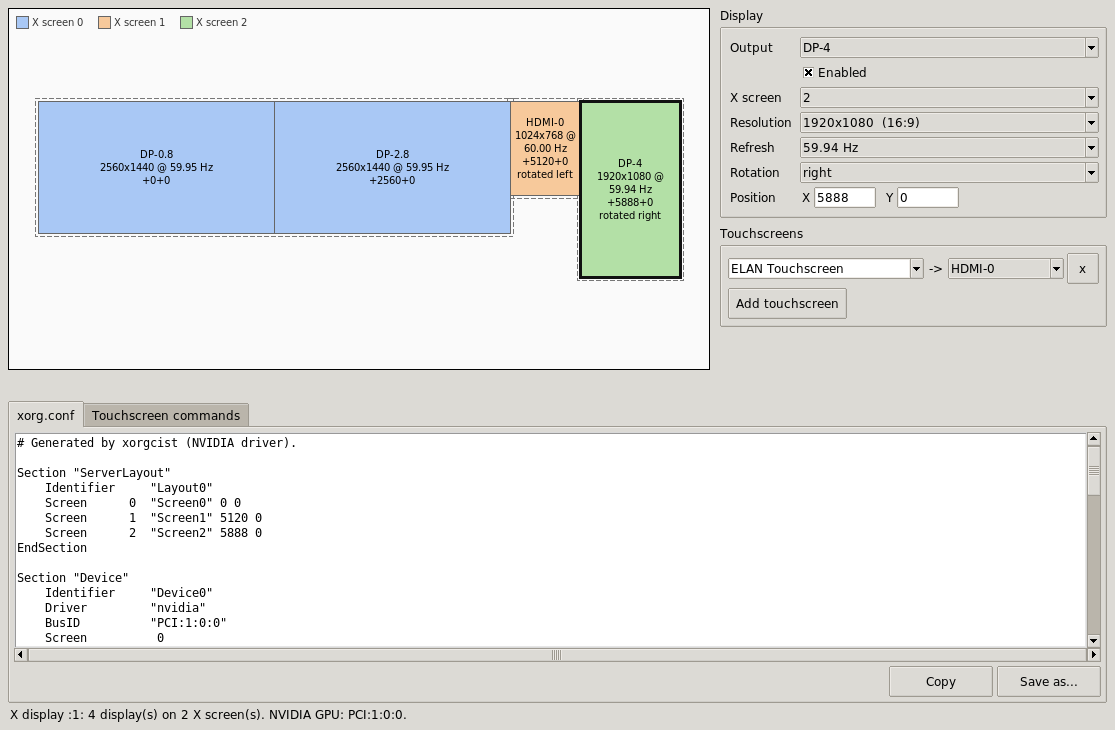
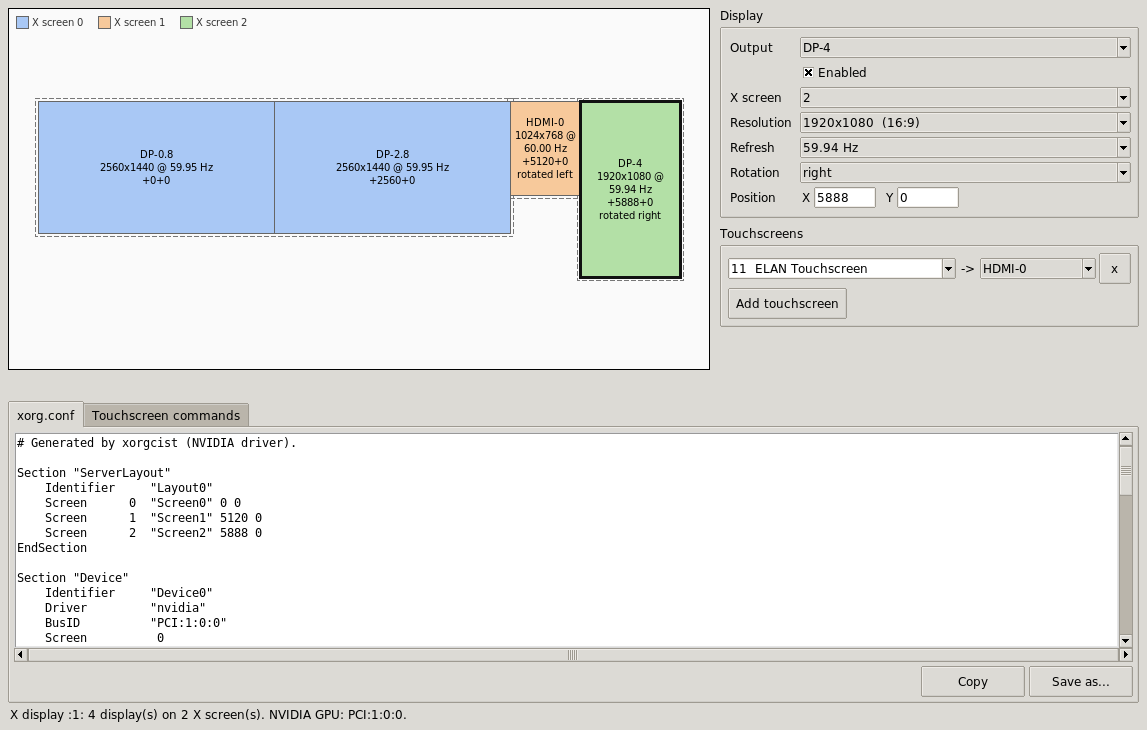
updated xrandr commands to use IDs instead of names

diff --git a/xorgcist.py b/xorgcist.py
@@ -8,7 +8,6 @@ import argparse
 import math
 import os
 import re
-import shlex
 import subprocess
 import sys
 import tkinter as tk
@@ -38,7 +37,7 @@ OUTPUT_RE = re.compile(r"^(\S+) (connected|disconnected)([^(]*)")
 GEOMETRY_RE = re.compile(r"(\d+)x(\d+)\+(-?\d+)\+(-?\d+)")
 MODE_RE = re.compile(r"^\s+(\d+)x(\d+)(\S*)\s+(.*)$")
 SCREEN_RE = re.compile(r"^Screen \d+:.* current (\d+) x (\d+)")
-XINPUT_RE = re.compile(r"^\W*(.+?)\s+id=\d+\s+\[slave\s+pointer")
+XINPUT_RE = re.compile(r"^\W*(.+?)\s+id=(\d+)\s+\[slave\s+pointer")
 
 
 def run(cmd, display=None):
@@ -105,12 +104,18 @@ def parse_xrandr(text):
 
 
 def parse_xinput(text):
-    names = []
+    """`xinput list` -> ["11  ELAN Touchscreen", ...], touchscreens first."""
+    devices = []
     for line in text.splitlines():
         m = XINPUT_RE.match(line)
-        if m and "XTEST" not in m.group(1) and m.group(1) not in names:
-            names.append(m.group(1))
-    return sorted(names, key=lambda n: "touch" not in n.lower())
+        if m and "XTEST" not in m.group(1):
+            devices.append("%s  %s" % (m.group(2), m.group(1)))
+    return sorted(devices, key=lambda d: "touch" not in d.lower())
+
+
+def device_id(text):
+    m = re.match(r"\s*(\d+)", text)
+    return m.group(1) if m else None
 
 
 def pci_to_busid(pci):
@@ -317,16 +322,17 @@ def emit_touch_script(state):
     lines = ["#!/bin/sh",
              "# Generated by xorgcist. Run inside the X session, e.g. from session autostart.",
              "# xinput settings are lost when the device is re-plugged or X restarts."]
-    rows = [t for t in state["touch"] if t["device"].strip()]
+    rows = [t for t in state["touch"] if device_id(t["device"])]
     if not shown or not rows:
         return "\n".join(lines + ["", "# No touchscreens added."]) + "\n"
     x0, y0, x1, y1 = bbox(shown)
     lines.append("# Desktop spanning all X screens: %dx%d" % (x1 - x0, y1 - y0))
+    lines.append("# xinput IDs can change when input devices are re-plugged or added; see: xinput list")
     if screen_count(state) > 1:
         lines.append("# Multiple X screens: the pointer only crosses shared screen edges.")
     for t in rows:
         d = state["displays"][t["display"]]
-        name = t["device"].strip()
+        name = " ".join(t["device"].split())
         lines.append("")
         if not d["enabled"]:
             lines.append("# %s -> %s skipped: that display is disabled." % (name, d["name"]))
@@ -336,8 +342,7 @@ def emit_touch_script(state):
             name, d["name"], w, h, d["x"] - x0, d["y"] - y0,
             "" if d["rotation"] == "normal" else ", rotated " + d["rotation"]))
         lines.append('xinput set-prop %s --type=float "Coordinate Transformation Matrix" %s' % (
-            shlex.quote("pointer:" + name),
-            " ".join(fmt_num(v) for v in touch_matrix(shown, d))))
+            device_id(t["device"]), " ".join(fmt_num(v) for v in touch_matrix(shown, d))))
     return "\n".join(lines) + "\n"
 
 # ---------------------------------------------------------------- UI
@@ -488,7 +493,7 @@ def build_touch_rows(state, ui):
         w.destroy()
     del ui["touch_widgets"][:]
     for i, t in enumerate(state["touch"]):
-        dev = ttk.Combobox(frame, values=state["devices"], width=22)
+        dev = ttk.Combobox(frame, values=state["devices"], width=26)
         dev.set(t["device"])
         disp = ttk.Combobox(frame, state="readonly", width=12)
         dev.grid(row=i, column=0, sticky="ew", pady=1)

diff --git a/README.md b/README.md
@@ -35,7 +35,7 @@ You must be logged in at the target's console as the same user, because that Xau
 
 - **Move a display:** drag it on the canvas, or type X/Y. Positions are absolute desktop pixels. There is no snapping.
 - **Output fields:** Enabled, X screen (an existing one or `New`), Resolution (with aspect ratio), Refresh and Rotation.
-- **Touchscreens:** click *Add touchscreen*, pick the input device (or type its `xinput` name), then pick the display it should cover.
+- **Touchscreens:** click *Add touchscreen*, pick the input device (listed as `xinput` ID and name, or type an ID), then pick the display it should cover.
 - **Save or copy:** the bottom panes update live. Use *Copy* or *Save as...* on either one.
 
 ## What gets generated
@@ -48,6 +48,8 @@ You must be logged in at the target's console as the same user, because that Xau
 To install: `sudo cp xorg.conf /etc/X11/xorg.conf`, then restart X. If it doesn't come up as expected, run `grep -E '\((EE|WW)\)' /var/log/Xorg.0.log`. With rootless X the log is `~/.local/share/xorg/Xorg.0.log`.
 
 **Touchscreen commands.** A `sh` script with one `xinput set-prop ... "Coordinate Transformation Matrix"` line per touchscreen, calculated as on the [Arch wiki](https://wiki.archlinux.org/title/Calibrating_Touchscreen) with the display's rotation included. Run it inside the X session, for example from session autostart. X forgets the setting when the device is re-plugged or X restarts.
+
+Devices are referenced by their `xinput list` ID, so two identical touchscreens can be told apart. Working out which ID belongs to which physical screen is up to you. X assigns the IDs in a fixed order when it starts, so they stay the same across reboots as long as the same devices are plugged into the same ports. They can change after re-plugging a device or adding another input device.
 
 ## NVIDIA and X11 details
 
